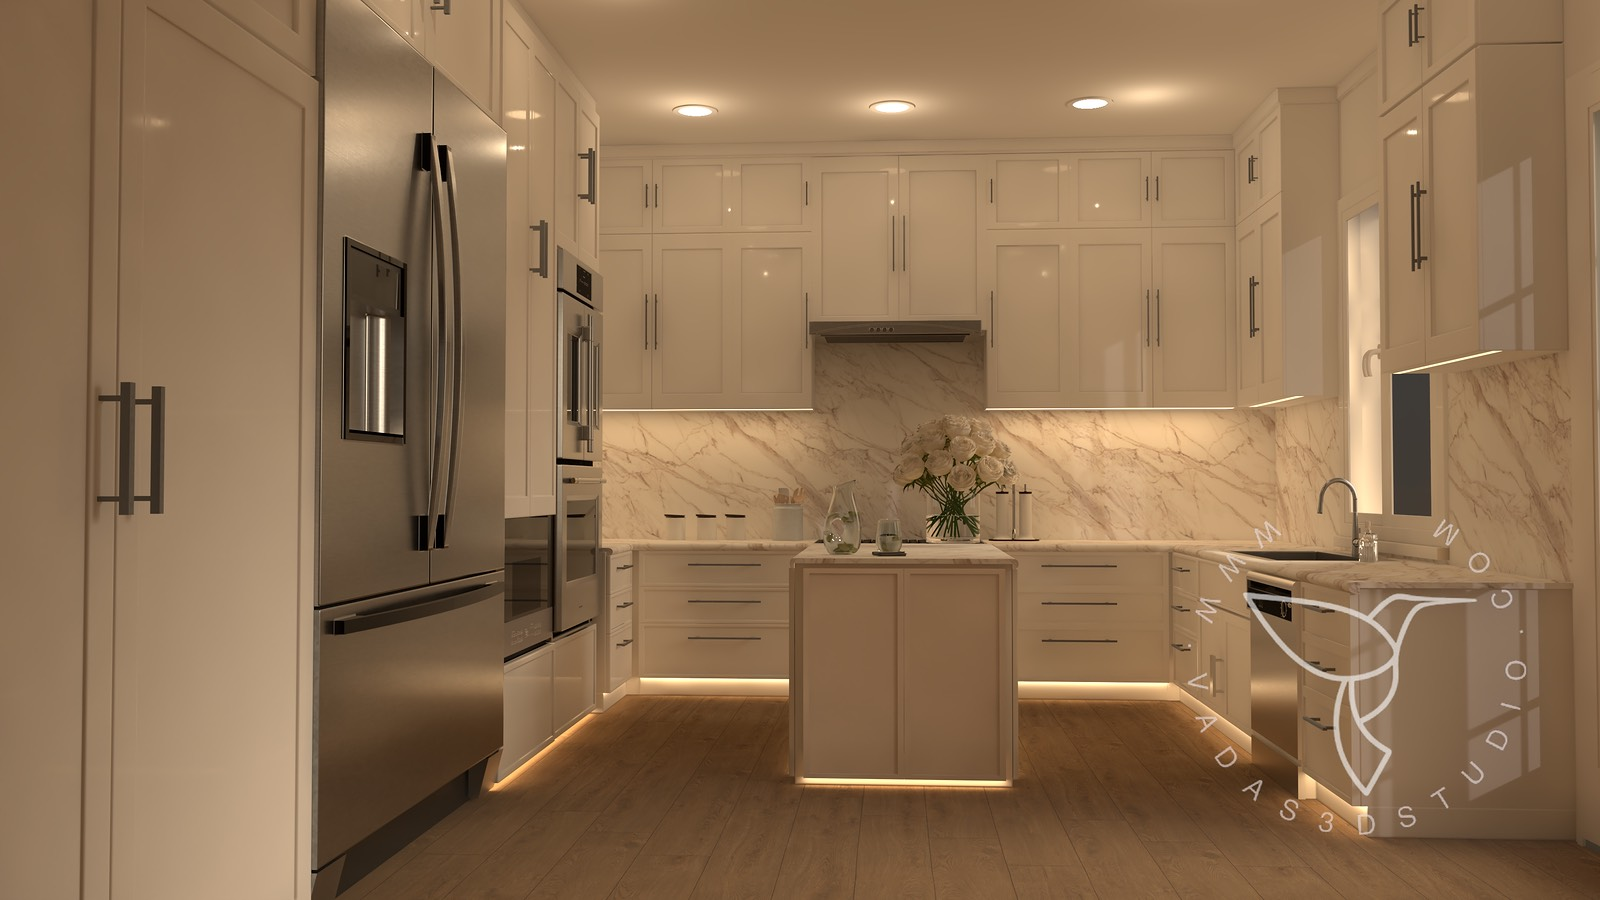
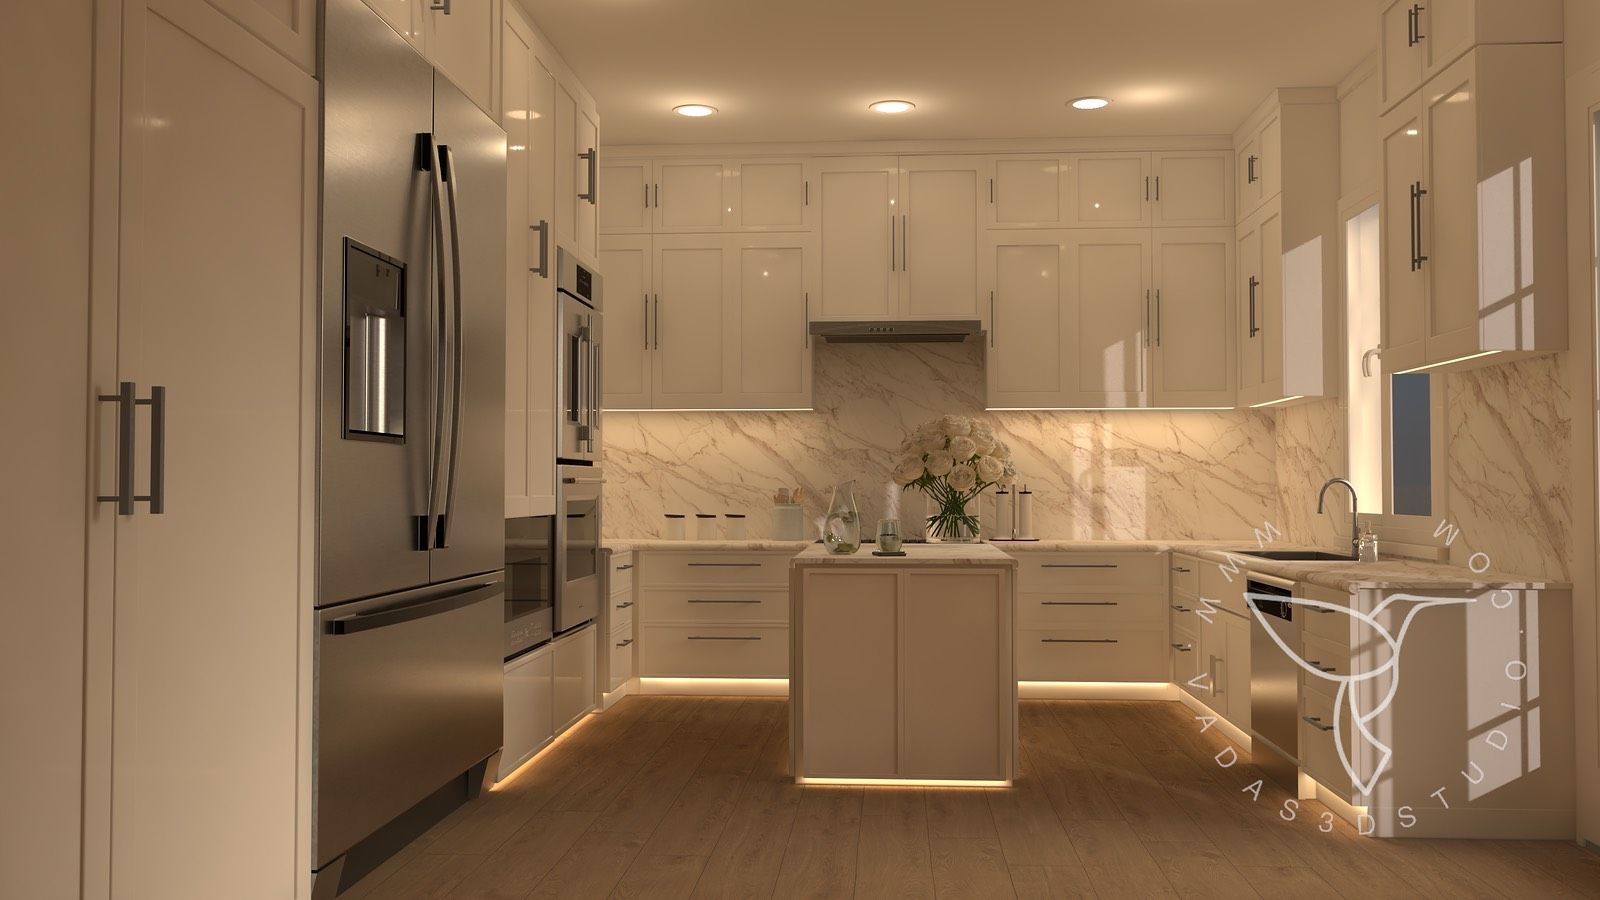
UI update

diff --git a/src/app/sections/home/about/section.tsx b/src/app/sections/home/about/section.tsx
@@ -1,14 +1,43 @@
-import AboutAside from "./AboutAside";
 import Paragraph from "./Paragraph";
 import Collage from "./Collage";
+import Skills from "./Skills";
+import Tools from "./Tools";
+import Image from "next/image";
+import aboutPhoto from "@/app/assets/images/about/about-photo.jpg";
 
 export default function AboutSection() {
   return (
     <section className="container-1000">
       <div className="space-y-4">
-        <div className="flex lg:items-end max-lg:flex-col gap-x-4 gap-y-4">
-          <AboutAside />
-          <Paragraph />
+        <p className="text-center">
+          <span className="font-syncopate text-shine text-center text-4xl leading-0 mb-6">
+            About Me
+          </span>
+        </p>
+        <div className="container-600">
+          <div className="mb-6 flex flex-col items-center  gap-x-4 gap-y-4">
+            <div className="rounded-full overflow-hidden h-52 w-52 flex-none">
+              <Image
+                src={aboutPhoto}
+                alt="About Photo"
+                className="object-cover"
+                width={300}
+                height={381}
+              />
+            </div>
+            <Paragraph />
+          </div>
+        </div>
+        <div className="space-y-4">
+          <div className="flex flex-col items-center gap-y-0.5 lg:gap-y-2">
+            <p className="text-center mb-1">
+              <span className="font-syncopate text-3xl text-shine text-center leading-0">
+                Skills
+              </span>
+            </p>
+            <Tools />
+          </div>
+          <Skills />
         </div>
         <Collage />
       </div>

diff --git a/src/app/sections/home/about/Paragraph.tsx b/src/app/sections/home/about/Paragraph.tsx
@@ -1,14 +1,11 @@
 export default function Paragraph() {
   return (
-    <div className="font-syncopate text-fg text-lg font-[300] max-lg:pt-6">
-      <p className="relative">
-        <span className="font-syncopate text-shine leading-0">About Me</span>{" "}
-        I&apos;m Vada, a visionary creative 3D artist specializing in
-        photorealistic renderings, product visualizations, and architectural
-        concepts. With my attention for detail and a deep love for composition,
-        lighting and storytelling through design, I&apos;ll help you turn any
-        concept and abstract ideas into reality.
-      </p>
+    <div className="font-syncopate text-fg text-justify font-[300]">
+      I&apos;m Vada, a visionary creative 3D artist specializing in
+      photorealistic renderings, product visualizations, and architectural
+      concepts. With my attention for detail and a deep love for composition,
+      lighting and storytelling through design, I&apos;ll help you turn any
+      concept and abstract ideas into reality.
     </div>
   );
 }

diff --git a/src/app/sections/home/about/Collage.tsx b/src/app/sections/home/about/Collage.tsx
@@ -1,5 +1,4 @@
 import {
-  duAgGroup,
   kitchenSketchupGroup,
   kitchenSketchup2Group,
 } from "@/app/assets/effects";
@@ -21,11 +20,6 @@ export default function Collage() {
       />
       <AutomaticCarousel
         images={kitchenSketchup2Group}
-        intervalSeconds={2}
-        className="mb-2 w-full aspect-[7/4]"
-      />
-      <AutomaticCarousel
-        images={duAgGroup}
         intervalSeconds={2}
         className="mb-2 w-full aspect-[7/4]"
       />

diff --git a/src/app/sections/home/about/Skills.tsx b/src/app/sections/home/about/Skills.tsx
@@ -2,7 +2,7 @@ import { skills } from "@/lib/constants/skills";
 
 export default function Skills() {
   return (
-    <ul className="font-dm-sans max-sm:text-sm leading-5">
+    <ul className="font-dm-sans max-sm:text-sm leading-5 flex justify-center flex-wrap gap-x-4 gap-y-2">
       {skills.map((skill) => (
         <li key={skill.id}>
           <span className="text-accent-1">&#8226;</span> {skill.name}

diff --git a/src/lib/constants/skills.ts b/src/lib/constants/skills.ts
@@ -11,9 +11,8 @@ export const skills = [
   { id: 3, name: "Rendering" },
   { id: 4, name: "3D Modeling" },
   { id: 5, name: "Color Grading" },
-  { id: 6, name: "Color Correction" },
-  { id: 7, name: "Video Production" },
-  { id: 8, name: "Architectural Visualization" },
+  { id: 6, name: "Video Production" },
+  { id: 7, name: "Architectural Visualization" },
 ];
 
 export const tools = [

diff --git a/src/app/globals.css b/src/app/globals.css
@@ -271,7 +271,6 @@ form {
   animation: shine 3s infinite linear;
   animation-fill-mode: forwards;
   -webkit-text-size-adjust: none;
-  font-size: 2.6rem;
   text-decoration: none;
   white-space: nowrap;
 }
@@ -318,6 +317,11 @@ form {
 .container-1000 {
   margin-inline: auto;
   width: min(94%, 1000px);
+}
+
+.container-600 {
+  margin-inline: auto;
+  width: min(94%, 600px);
 }
 
 img,

diff --git a/src/app/sections/home/about/Tools.tsx b/src/app/sections/home/about/Tools.tsx
@@ -7,7 +7,7 @@ import { tools } from "@/lib/constants/skills";
  */
 export default function Tools() {
   return (
-    <ul className="font-poppins flex flex-col gap-y-5.5 mr-2">
+    <ul className="font-poppins flex  gap-x-5.5 mr-2">
       {tools.map((tool) => (
         <li key={tool.id} className="tool w-fit relative">
           <tool.icon className="w-5 h-5 lg:w-6 lg:h-6" />
